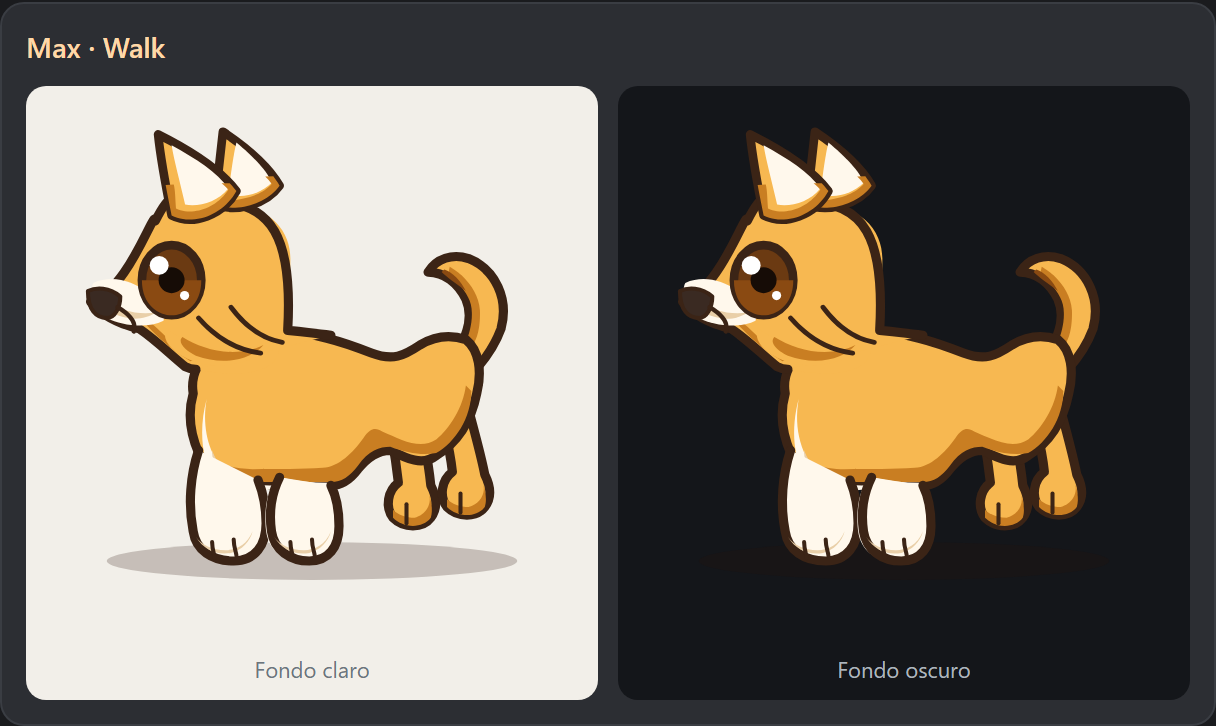
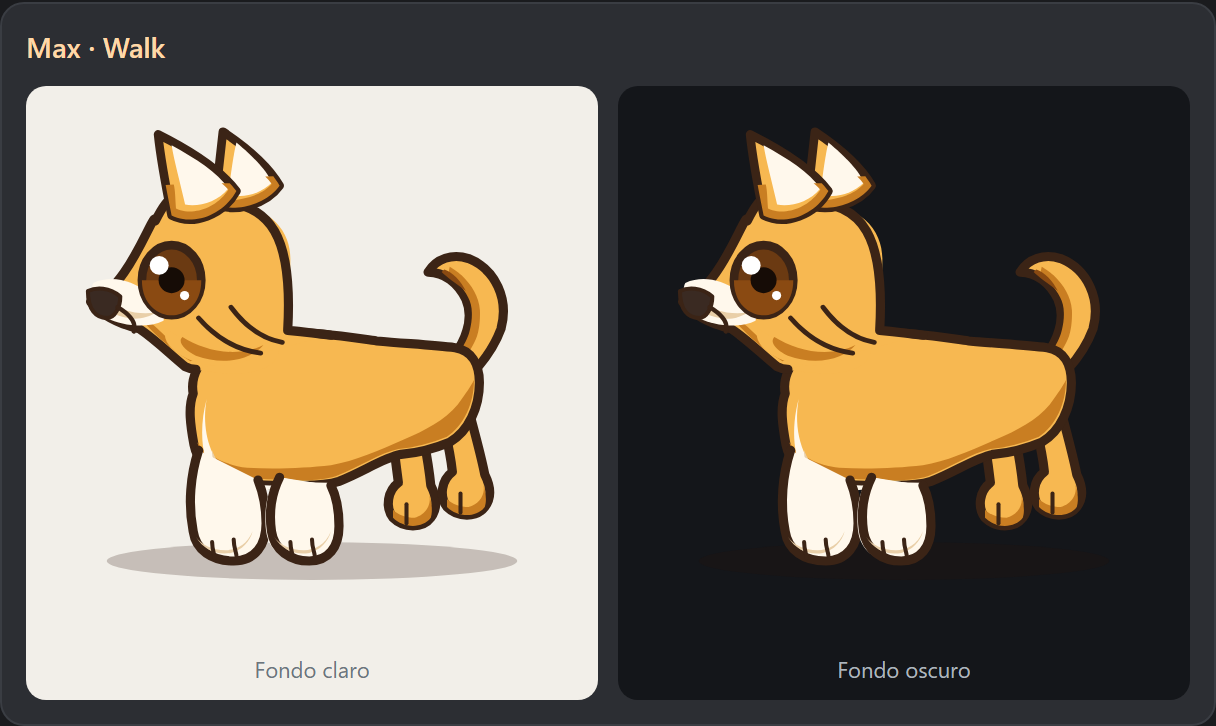
feat(segunda-ronda-sobre-la-pose-de): Paso 2 — Evidencia visual de la ronda 2: regenerar docs/pet-

diff --git a/test/pet-assets.test.js b/test/pet-assets.test.js
@@ -2306,12 +2306,17 @@ function plainText(s) {
 
 // =============================================================
 // POSE DE CAMINAR DE MAX — plan 2026-10-30-dog-walk-pose-fix
+//                          + plan 2026-10-30-dog-walk-torso-round2
 //
 // La captura docs/pet-screenshots/dog-walk.png es la evidencia que mira
 // el revisor visual, asi que su fila en el README tiene que decir QUE
 // MIRAR en la pose nueva: la cola que nace de la grupa y se enrosca hacia
 // arriba sin apoyarse en el lomo, el pecho mas hondo que la cintura y la
-// silueta unica.
+// silueta unica (ronda 1).
+//
+// Ronda 2 (torso): ademas del vientre de una sola curva continua (sin
+// escalon delante de las patas traseras), la sombra plana del vientre sin
+// gancho y el lomo casi recto sin joroba.
 // =============================================================
 
 test('README de capturas: la fila de dog-walk documenta los criterios visuales de la pose de caminar de Max', () => {
@@ -2358,4 +2363,21 @@ test('README de capturas: la fila de dog-walk documenta los criterios visuales d
     'la fila debe decir que hay que mirar la pata delantera lejana');
   assert.match(what, /vientre/,
     'la fila debe decir que la pata tiene que quedar pegada al vientre');
+
+  // 5. el vientre es una sola curva continua, sin escalon delante de las
+  //    patas traseras (plan 2026-10-30-dog-walk-torso-round2)
+  assert.match(what, /una sola curva/,
+    'la fila debe decir que el vientre es una sola curva continua');
+  assert.match(what, /escalon/,
+    'la fila debe decir que el vientre no hace escalon delante de las patas traseras');
+
+  // 6. la sombra plana del vientre no forma un gancho
+  assert.match(what, /gancho/,
+    'la fila debe decir que la sombra plana del vientre no forma un gancho');
+
+  // 7. el lomo es casi recto, sin joroba
+  assert.match(what, /recto/,
+    'la fila debe decir que el lomo es casi recto');
+  assert.match(what, /joroba/,
+    'la fila debe decir que el lomo no tiene joroba');
 });

diff --git a/docs/pet-screenshots/README.md b/docs/pet-screenshots/README.md
@@ -25,7 +25,7 @@ correr el comando de abajo.
 | [`cat-lay.png`](cat-lay.png) | Luna (gato) | lay | Acostada panza abajo, patas estiradas |
 | [`cat-stretch.png`](cat-stretch.png) | Luna (gato) | stretch | Estirada, grupa alta, cola alzada |
 | [`dog-idle.png`](dog-idle.png) | Max (perro) | idle | Pose de referencia del shiba: orejas caidas, hocico, cola en sable |
-| [`dog-walk.png`](dog-walk.png) | Max (perro) | walk | Cola que nace de la grupa y se enrosca hacia arriba sin apoyarse en el lomo (queda aire entre el rizo y la espalda); pecho mas hondo que la cintura; la pata delantera lejana pegada al vientre (sin cuna de fondo entre la pata y el cuerpo); silueta unica (una sola linea continua) |
+| [`dog-walk.png`](dog-walk.png) | Max (perro) | walk | Cola que nace de la grupa y se enrosca hacia arriba sin apoyarse en el lomo (queda aire entre el rizo y la espalda); pecho mas hondo que la cintura; la pata delantera lejana pegada al vientre (sin cuna de fondo entre la pata y el cuerpo); el vientre de una sola curva continua desde el pecho hasta la ingle (sin escalon con borde duro delante de las patas traseras, no se lee como una pieza pegada bajo el cuerpo); la sombra plana del vientre continua y sin gancho (ni punta hacia arriba delante de las patas traseras); el lomo casi recto, sin joroba (no se hunde en la plinga ni vuelve a subir en la grupa); silueta unica (una sola linea continua) |
 | [`dog-sleep.png`](dog-sleep.png) | Max (perro) | sleep | Acostado, ojos cerrados, sombra de piso mas baja |
 | [`dog-sit.png`](dog-sit.png) | Max (perro) | sit | Sentado, pecho erguido, cola en curva baja al costado |
 | [`dog-lay.png`](dog-lay.png) | Max (perro) | lay | Acostado panza abajo, patas estiradas |
